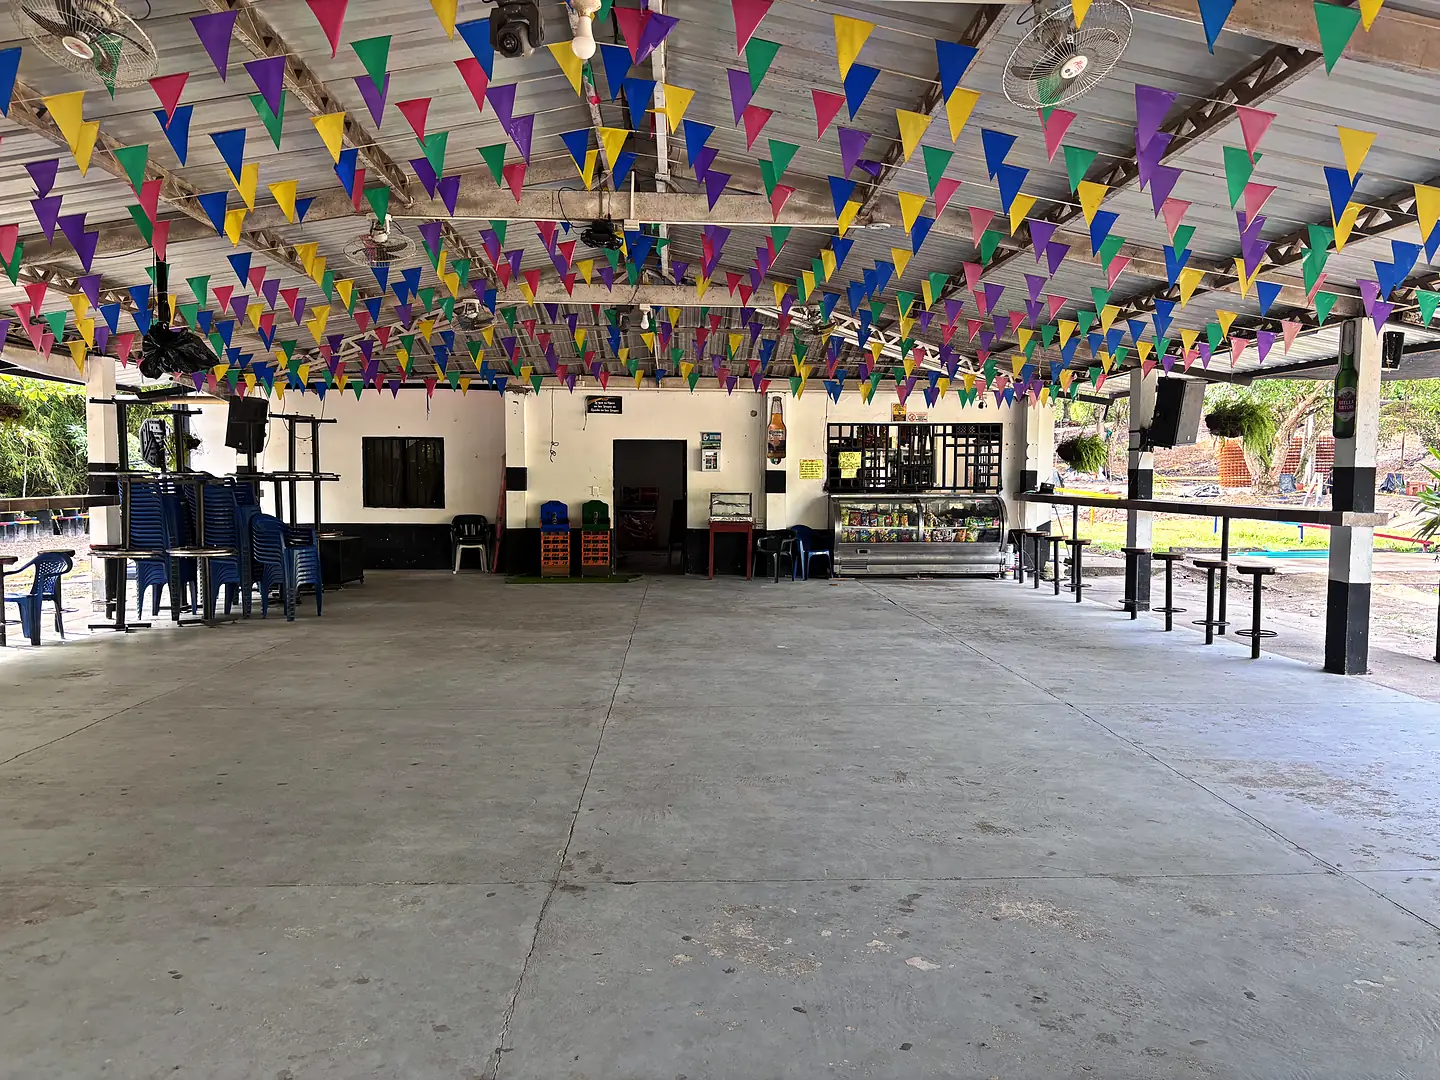
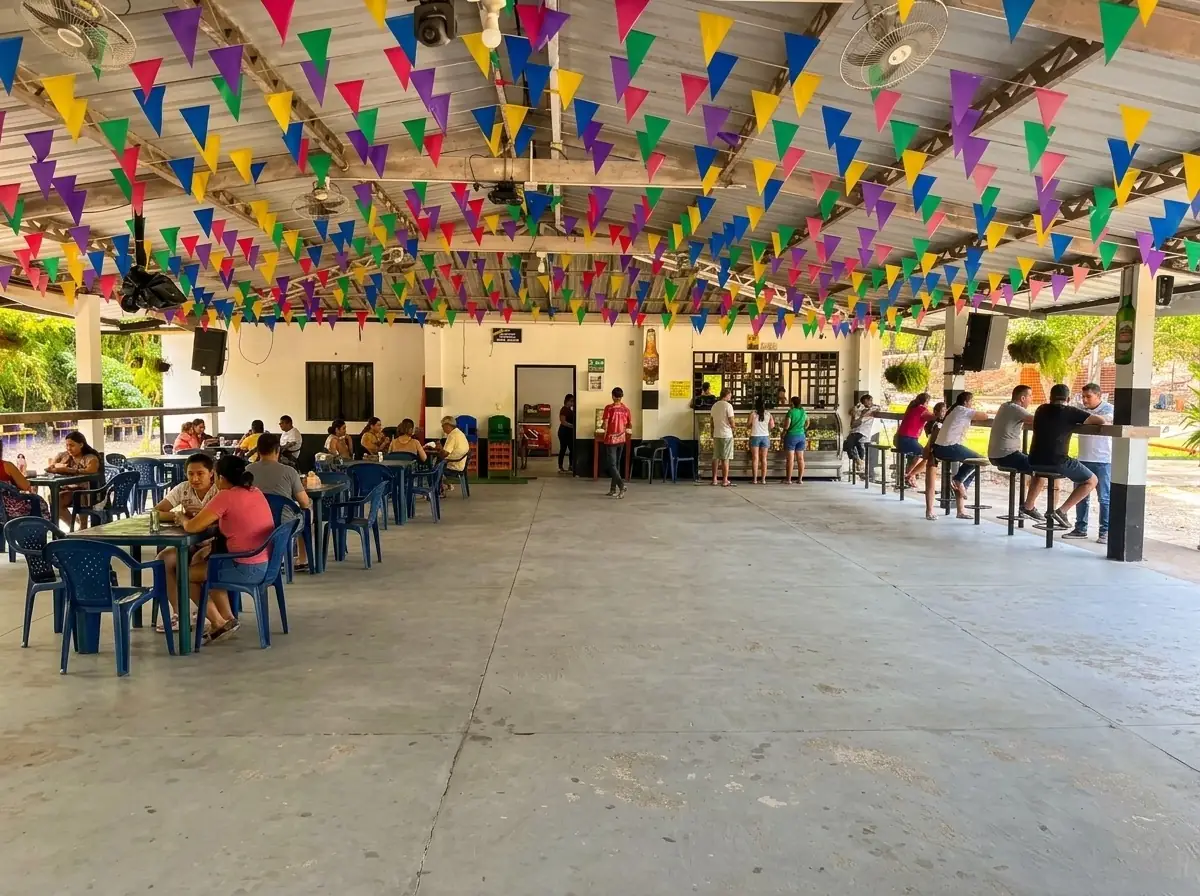
Balneario Las Vegas: fotos nuevas
La entrada del balneario pasa a ser la portada de la ficha (06) y el pozo
y el kiosco quedan en la galería (12 y 20), desde fotos-editadas/. El
carrusel de la página principal no cambia: editar_fotos.py --portada ya no
toma los colores de la entrada para la foto del río.

diff --git a/scripts/editar_fotos.py b/scripts/editar_fotos.py
@@ -118,6 +118,9 @@ def guardar(im: Image.Image, destino: Path, enfocar: bool = True):
 # Las fotos editadas a mano miden 1200 px y se ven borrosas a pantalla completa. Para la portada se parte
 # del original HEIC (nitidez completa) y se le copian los colores de la versión editada.
 PORTADA = [("balneario-las-vegas", "06"), ("reserva-natural-cabildo-verde", "27"), ("hotel-santa-maria-real", "10")]
+# En el Balneario, fotos-editadas/…-06 es otra escena (la entrada), no una edición de la 06 original:
+# la portada no debe copiar sus colores.
+PORTADA_SIN_REFERENCIA = {("balneario-las-vegas", "06")}
 PORTADA_DIR = DESTINO / "portada"
 
 
@@ -136,7 +139,7 @@ def portada(fuentes: dict[str, list[Path]]):
             im = ImageOps.exif_transpose(src).convert("RGB")
         im.thumbnail((2400, 2400), Image.Resampling.LANCZOS)
         editada = EDITADAS / f"{slug}-{nn}.jpeg"
-        if editada.exists():
+        if editada.exists() and (slug, nn) not in PORTADA_SIN_REFERENCIA:
             with Image.open(editada) as ref:
                 im = copiar_colores(im, ImageOps.exif_transpose(ref).convert("RGB"))
             im = ImageEnhance.Color(im).enhance(1.08)  # la transferencia apaga un poco el color
